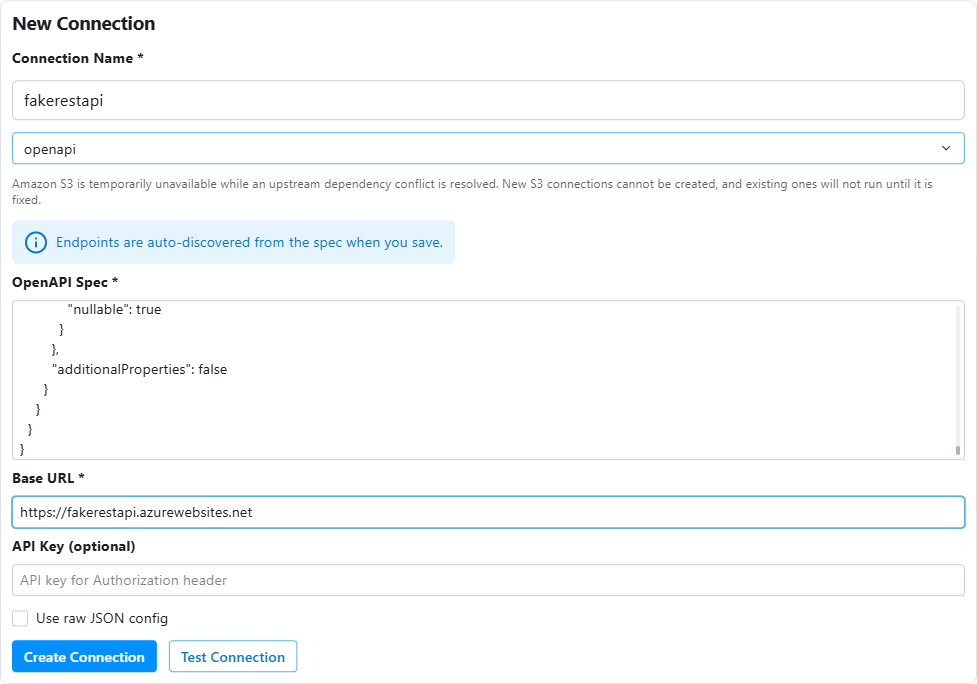
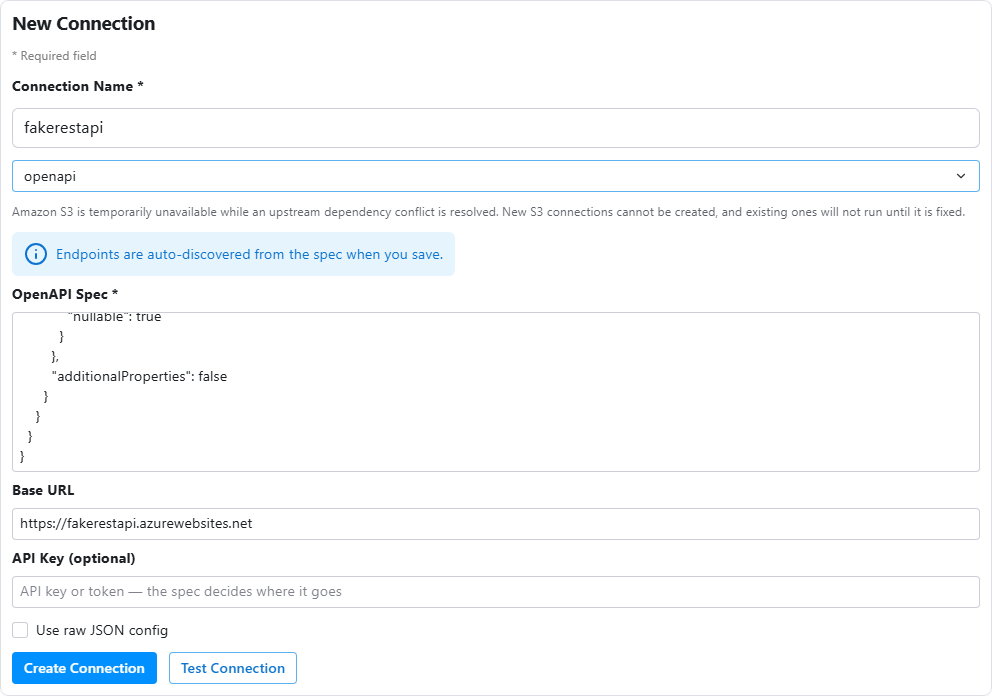
[Product] openapi guide: recapture Step 2 on core master, and re-walk Steps 2-4 (refs #572)
core PR #1346 took the asterisk off openapi's Base URL label, so the Step 2
screenshot showed a label core master no longer renders. Recaptured from a local
stack built from core master ba7289b (the revision production deployed on
2026-09-16) and cloud 68a2ee5, cloud edition, production-graded, under
SPEC_CONNECTOR_GUIDE_VERIFICATION 2.4.

- 02-add-connection.png: the published FakeRESTApi spec pasted unedited, Base URL
  filled and unmarked. Credential gate 4 inputs / 1 credential-shaped / 0 non-empty.
  The form was not submitted. No PNG text chunk.
- README.md: the capture row, a dated note under each of the two defects, and a
  2026-09-17 section with the 2.4 fields and what was walked. On core master the
  published spec saved with 5 endpoints and loaded rows with no hand edit
  (core#1345), and a second run left each table at that run's own count, counted in
  the destination (core#1336). The 2026-09-15 record is otherwise unchanged, and so
  are verified_by and verified_date.
- openapi.md: three HTML comments now say what was walked. No reader-facing text
  changed.

Found on the walk: core#1416 (the refusal message's reasons), and a requiredness
instance recorded on core#1311.

diff --git a/public/docs/connectors/openapi/README.md b/public/docs/connectors/openapi/README.md
@@ -6,7 +6,7 @@ Referenced from `src/content/connectors/openapi.md` (source-only API connector).
 
 | Filename | Step | Notes |
 |---|---|---|
-| `02-add-connection.png` | Step 2 | The **New Connection** form with `openapi` selected. Captured 2026-09-15 from a **local stack** (see *Where and on what this was walked*), light theme. **Connection Name** `fakerestapi`, the vendor's published FakeRESTApi spec pasted (sha256 `c0367244…`; the textarea shows its last lines), **Base URL** filled, **API Key** empty because this source needs none. `PRODUCT_RULES` §4 credential gate before the shot: 4 inputs, 1 credential-shaped, 0 non-empty. The form was not submitted. |
+| `02-add-connection.png` | Step 2 | The **New Connection** form with `openapi` selected. **Recaptured 2026-09-17** from a **local stack** on core `master` (see *2026-09-17 — Step 2 recaptured on core master*), light theme, CSS scale, 992×696. **Connection Name** `fakerestapi`, the vendor's published FakeRESTApi spec pasted unedited (sha256 `c0367244…`, the same document as on 2026-09-15; the textarea shows its last lines), **Base URL** filled and labelled without an asterisk, **API Key** empty because this source needs none. `PRODUCT_RULES` §4 credential gate before the shot: 4 inputs, 1 credential-shaped, 0 non-empty. The form was not submitted, and the PNG carries no text chunk. It replaces the 2026-09-15 capture, which showed the label `Base URL *` that core `master` no longer renders ([core#1346](https://github.com/datanika-io/datanika-core/pull/1346)). |
 | `04-first-run.png` | Step 4 | The **Data preview** on `/models/2`, the model detail page for the landed `activities` table: six columns (`id`, `title`, `due_date`, `completed`, `_dlt_load_id`, `_dlt_id`) and 30 rows, `Activity 1` to `Activity 30`, read live from the destination. Taken after run 3, the first run that loaded anything, while the table held exactly 30 rows. Every row carries the same `_dlt_load_id`. The `Rows: 30` label is out of frame. Credential gate: 0 non-empty credential-shaped fields. |
 
 ⚠ **A re-take of the Data preview after run 4 read `Rows: 60`, and it was not used.** Running the unchanged upload
@@ -59,6 +59,9 @@ count for `activities`.
 
 #### 🚨 Defect 1: the vendor's published spec imports zero endpoints ([core#1345](https://github.com/datanika-io/datanika-core/issues/1345))
 
+> **2026-09-17: fixed on core `master`, and re-measured through the form.** The same published document, unedited,
+> stored 5 resources and loaded rows. See *2026-09-17 — Step 2 recaptured on core master* below.
+
 Every collection response in the spec is declared as `application/json; v=1.0`. Swashbuckle emits that type when
 ASP.NET API versioning is on. The parser matches only an exact `application/json`, so the parse found
 **0 resources**. **Create Connection** succeeded **with no warning on screen**. Every run then failed in under a
@@ -76,6 +79,9 @@ and 4, the Models and Data preview observations and the first-run capture used t
 add-connection capture shows the published one.
 
 #### 🚨 Defect 2: a re-run lands every row again ([core#1336](https://github.com/datanika-io/datanika-core/issues/1336), measured here)
+
+> **2026-09-17: fixed on core `master`, and re-measured.** A second run of an unchanged upload left each table at
+> that run's own count. See *2026-09-17 — Step 2 recaptured on core master* below.
 
 An upload saved on the structured form stores a hidden `write_disposition: append`. Neither Write Disposition nor
 Load Mode is rendered for this source type, and the stored row reads
@@ -121,6 +127,73 @@ Step 5's schedule would therefore add another full copy of every table.
   remedy does not work for defect 1.
 - Not mentioned: a new upload lands as `draft`, and the spec's `dueDate` lands as `due_date`. The **Test** action on a
   saved connection's row shows the same verdict only as a status icon; the sentence is in that icon's hover tooltip.
+
+### 2026-09-17 — Step 2 recaptured on core master; both defects re-measured
+
+Walked by Product through the UI. Three changes reached core `master` after the 2026-09-15 walk, and each changes
+what this guide shows or promises: [core#1346](https://github.com/datanika-io/datanika-core/pull/1346) removed the
+asterisk from Base URL's label, [core#1345](https://github.com/datanika-io/datanika-core/issues/1345) changed what
+the parse reads and what the form refuses, and [core#1336](https://github.com/datanika-io/datanika-core/issues/1336)
+changed what a re-run does.
+
+`verified_by` and `verified_date` still name the 2026-09-15 walk, and this section does not change them. It adds a
+later walk of Steps 2 to 4 to the record.
+
+#### Where and on what (`SPEC_CONNECTOR_GUIDE_VERIFICATION.md` §2.4)
+
+| field | value |
+|---|---|
+| **Environment** | `local stack`: the image core's `scripts/build-from-worktree.sh` built, run with core's `scripts/worktree-stack.sh` (its own compose project, container names and host ports). The one-origin proxy did not start, because its host port was inside a range the host had reserved. The browser used the frontend and backend ports directly. Every websocket reached this stack's own backend, and every request to a host other than `localhost` was aborted. |
+| **Core revision** | `ba7289b92ca37daa6110958a605282020a16771a`: `origin/master` when built and when this record was written, and the revision production deployed on 2026-09-16. Four core files inside the image matched their git blobs at that commit. One of them, `connections.py`, differs on `origin/dev`, and the image's copy did not match `dev`'s. `git merge-base --is-ancestor` against `origin/master` after a fresh fetch: **yes**. Control: core `dev` `3a2d4147` answered **no**. |
+| **Cloud revision** | `68a2ee5631db3f5099fca769d52a84187fb4f354`, `origin/master` when built. Cloud `master` has since moved on. Ancestor check: **yes**. Control: an unmerged cloud branch answered **no**. |
+| **Edition** | cloud, read from the app, worker and scheduler's own interpreters |
+| **Configuration** | `production-graded`. `datanika_allow_local_file_paths` is `False` in the app, worker and scheduler, each read from its own interpreter. The billing settings were left at their code defaults, as on 2026-09-15. |
+| **Guide revision** | blob `f941dda8`, the text of landing `c81d0b8`, which reached `dev` as `389be33` during this walk |
+| **Not exercised** | allowlisting Datanika's egress IPs · an API key and the auth table (the spec declares no `securitySchemes`) · a blank Base URL · creating the connection through the API · pagination, incremental cursors and envelope keys · `resource_names` · the four save-time error codes · a `+json` media type (read in code only) · the Columns schema contract · Test Connection · the Data preview (`04-first-run.png` is still the 2026-09-15 capture) · Step 5 |
+
+#### What happened
+
+- **Step 2, photographed and not submitted.** The labels as rendered: `Connection Name *`, `OpenAPI Spec *`,
+  `Base URL`, `API Key (optional)`. The Base URL input has no `required` attribute.
+- **Step 2, submitted separately.** The published spec, unedited and still declaring `application/json; v=1.0` 27
+  times, saved. Read back through the app's own interpreter, the connection holds **5 resources**:
+  `activities`, `authors`, `books`, `coverphotos`, `users`, each with primary key `id`. On 2026-09-15 the same
+  document stored none.
+- **The refusal Step 1 describes.** A spec whose only GETs are a templated path and a path whose response is a
+  single object was refused at save, and no connection was created. The form showed:
+  `Invalid config: This spec has no endpoint the connector can load: Skipped templated endpoint /users/{id} — detail endpoints need a parent (P3).; Skipped GET /status — no array/collection JSON response schema.`
+- **Steps 3 and 4.** Destination connection **2** `walkwarehouse` (postgres, a database in the stack's own
+  Postgres), source connection **3** `fakerestapi`, upload **1** `fakerestapiwalk` on the structured form with
+  *Use raw JSON config* unticked. The upload landed as `draft` and stored `{"mode": "full_database"}`, with no
+  `write_disposition` (on 2026-09-15 it stored `append`). Run **1** `success`, Rows `1040`; run **2**, the same
+  upload unchanged, `success`, Rows `1034`. `/models` listed all five tables.
+
+**Rows counted in the destination database, not through the app:**
+
+| table | after run 1 | after run 2 | ids after run 2 | `_dlt_load_id` values after run 2 |
+|---|---|---|---|---|
+| `activities` | 30 | 30 | 1–30 | 1 |
+| `authors` | 600 | 594 | 1–594 | 1 |
+| `books` | 200 | 200 | 1–200 | 1 |
+| `coverphotos` | 200 | 200 | 1–200 | 1 |
+| `users` | 10 | 10 | 1–10 | 1 |
+
+In every table, after each run, the row count equals the count of distinct `id`. Each run's table total equals its
+Rows count. At the source, read after each run, `activities`, `books`, `coverphotos` and `users` returned the counts
+above; `authors` returns a list of random length on every request, as on 2026-09-15.
+
+- **Defect 1 is fixed on this revision.** The published document needed no edit.
+- **Defect 2 is fixed on this revision.** The second run replaced each table rather than appending to it.
+  `authors` also shows the consequence Step 5 states: it held 600 rows after run 1 and 594 after run 2, so rows that
+  only the first run had loaded did not survive the second.
+
+#### Found on this walk
+
+- The refusal message lists an auth warning as if it were a reason, and shows internal phase labels and a doubled
+  `.;` → [core#1416](https://github.com/datanika-io/datanika-core/issues/1416). The guide quotes the OAuth2 warning
+  with its `in P1`, so that sentence changes when the fix reaches `master`.
+- `OpenAPI Spec *` is marked, and the form refuses it blank, but its textarea has no `required` attribute. Recorded on
+  [core#1311](https://github.com/datanika-io/datanika-core/issues/1311).
 
 ## Not captured
 

diff --git a/src/content/connectors/openapi.md b/src/content/connectors/openapi.md
@@ -41,8 +41,10 @@ Save it to a file, or copy it to the clipboard — you are going to paste the wh
 > **A spec with no endpoint Datanika can load is refused at save**, with the parser's reasons: `Invalid config: This spec has no endpoint the connector can load: …`, listing up to three. A JSON response counts however it is declared: plain `application/json`, with a parameter such as `application/json; v=1.0` (what ASP.NET's Swashbuckle emits when API versioning is on), or a `+json` type.
 
 <!-- core#1345, fixed in production. This replaced a warning, walked 2026-09-15, that told readers to strip
-     media-type parameters by hand before pasting. Read in code on core master ba7289b: the parser's
-     _is_json_media_type, and the save-time refusal in connection_state.py. Not walked since the fix. -->
+     media-type parameters by hand before pasting. Walked 2026-09-17 on a local stack from core master ba7289b
+     (public/docs/connectors/openapi/README.md, "2026-09-17"): the vendor's published spec, unedited, saved with
+     5 endpoints and loaded rows, and a spec with no loadable endpoint was refused with the message quoted in
+     Troubleshooting. The +json case is read in code only. The reasons inside that message are core#1416. -->
 
 **Two limits, both enforced at save time:**
 
@@ -65,9 +67,10 @@ A spec over these limits is not a bug to report — it is a spec describing more
    - **API Key (optional)** — your token. Stored encrypted at rest with Fernet. How it is *used* depends on what the spec declares; see below.
 5. Click **Create Connection**.
 
-<!-- core#1311's first slice (core PR #1346) removes the asterisk from openapi's Base URL label, while self-hosted
-     release tags keep the old label, so the Base URL sentence above covers both on purpose. The Step 2 screenshot
-     shows the old label: recapture 02-add-connection.png from core master once #1346 is there. -->
+<!-- core#1311's first slice (core PR #1346) removed the asterisk from openapi's Base URL label. Release tags
+     v0.1.0 to v0.1.3 still render "Base URL *", so the Base URL sentence above covers both on purpose; drop its
+     asterisk warning once no supported tag renders it. 02-add-connection.png was recaptured on 2026-09-17 from
+     core master ba7289b and shows the unmarked label (README, "2026-09-17"). -->
 
 Two more things are on that screen. A notice that the **S3 connector is temporarily unavailable** —
 unrelated to OpenAPI, ignore it. And a **Use raw JSON config** checkbox below the fields: **leave it
@@ -183,8 +186,9 @@ The names are the resource names derived from the spec's paths — the same name
      tests/test_services/test_rerun_lands_each_record_once.py (openapi path into a real DuckDB file:
      two runs leave each record once, a table holding copies goes back to one copy, an explicit
      append still appends) and QA's reading of the deployed decision function on core#1336.
-     "A record the API no longer returns is gone" follows from replace and was not separately
-     measured. -->
+     Walked 2026-09-17 on a local stack from core master ba7289b (README, "2026-09-17"): a second run of
+     an unchanged upload left each table at that run's own count, counted in the destination, and
+     authors went from 600 rows to 594, so rows only the first run had loaded were gone. -->
 
 > **If the vendor revises their spec, Datanika will not notice.** The catalog is parsed once, at save time, and stored on the connection. New endpoints, renamed fields and changed pagination arrive only when you re-paste the spec and save again. Put that on the same calendar as any other vendor API review.
 
